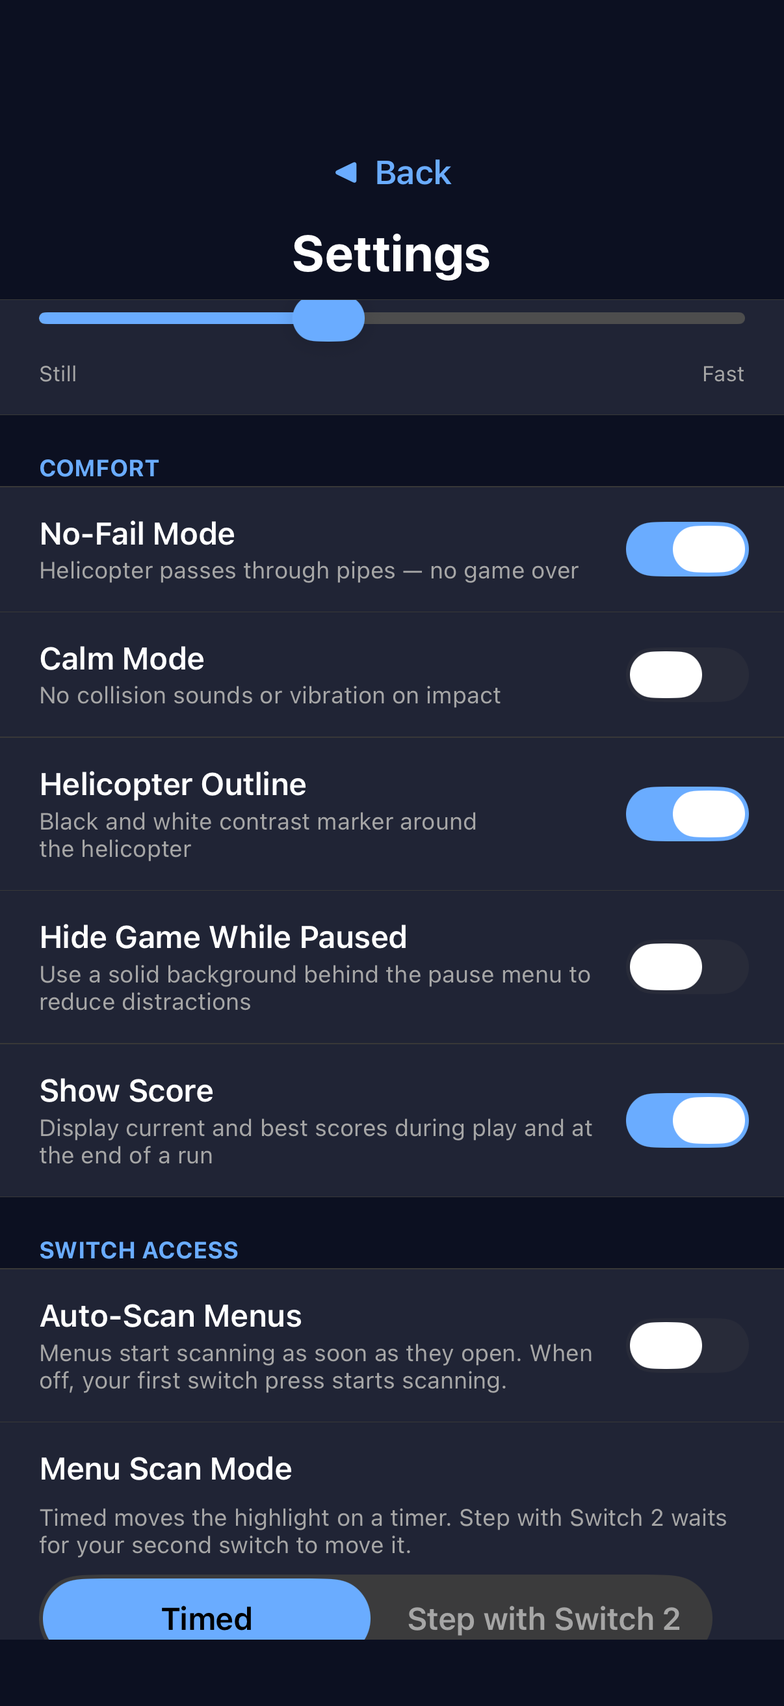
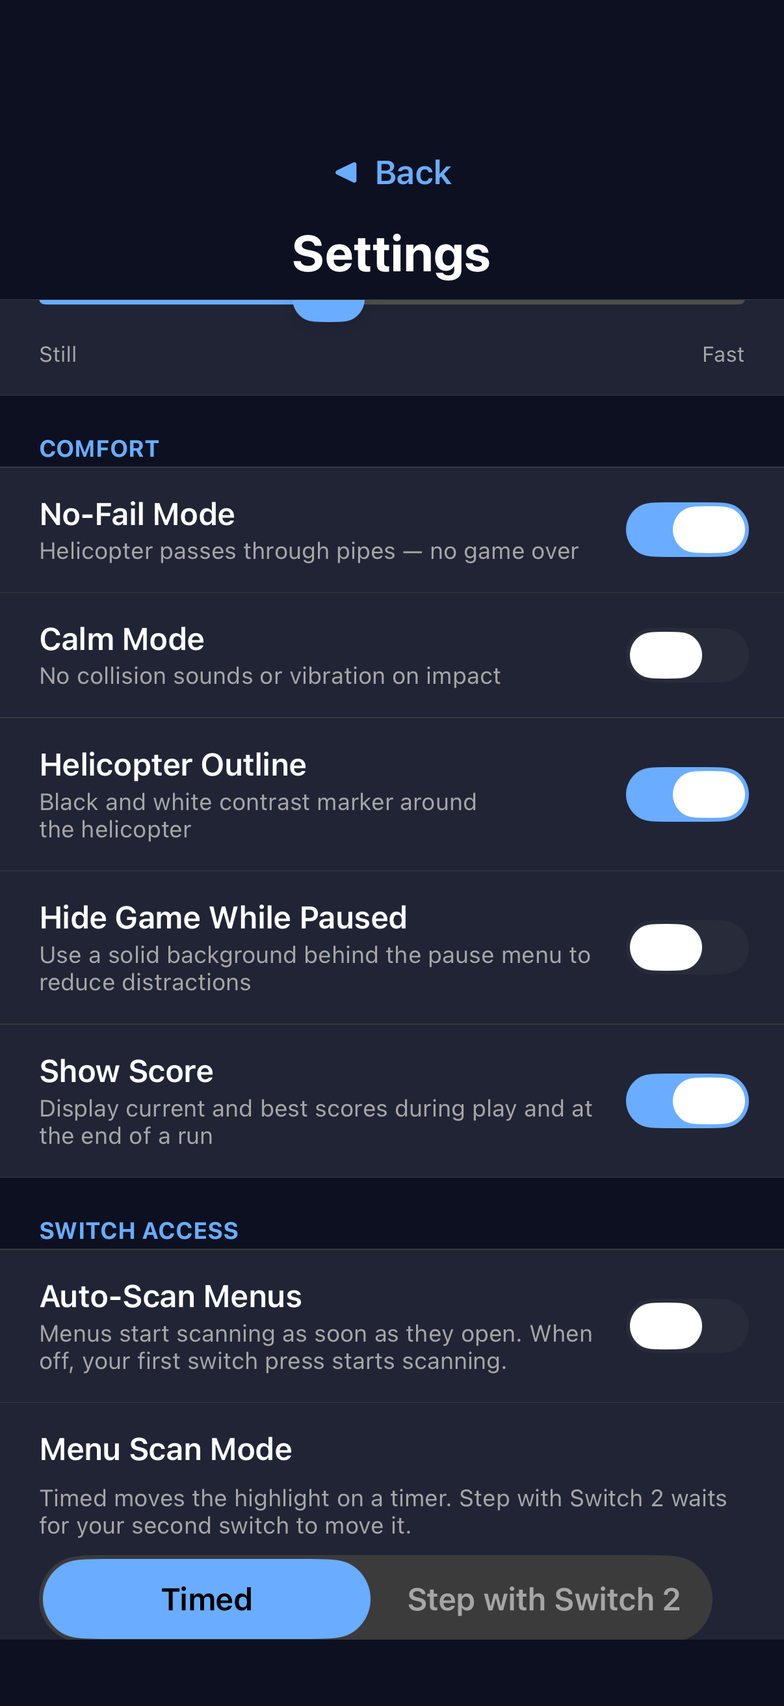
Bring the 2.1 release text and screenshots up to date with Direct Touch and the new pause options
What's New, the description, and the review notes now describe VoiceOver
Direct Touch, the top/bottom touch split, and each scheme's pause. The
screenshot test is fixed for the Fly up / Fly down areas and scrolls
reliably on every device; phones get a separate colours shot.

diff --git a/HelichopterUITests/StoreScreenshotTests.swift b/HelichopterUITests/StoreScreenshotTests.swift
@@ -26,6 +26,8 @@ final class StoreScreenshotTests: XCTestCase {
                                 "-gs_isSettingsLocked", "<false/>", "-gs_selectedThemeID", "nightSky",
                                 "-gs_selectedPaletteID", "default", "-isMusicOn", "<false/>",
                                 "-gs_scanScheme", "<integer>0</integer>",
+                                "-gs_scanDwellTime", "<real>2</real>",
+                                "-gs_switchPauseHoldDuration", "<real>3</real>",
                                 "-gs_controlScheme", "<integer>\(controlScheme)</integer>",
                                 "-bestScore", "<integer>18</integer>"]
         app.launch()
@@ -41,27 +43,81 @@ final class StoreScreenshotTests: XCTestCase {
     }
 
     /// Scrolls Settings until `element`'s top sits at `fraction` of the screen height.
-    /// Slow drags in the left margin avoid coasting and never touch a slider.
     private func scroll(_ element: XCUIElement, toTopAt fraction: CGFloat) {
-        XCTAssertTrue(element.waitForExistence(timeout: 5))
+        scroll(element, toY: fraction * app.frame.height)
+    }
+
+    /// Scrolls Settings until `element`'s top sits `points` below the Settings title, so
+    /// the framing matches on phones whose title bars differ in height.
+    private func scroll(_ element: XCUIElement, belowTitleBy points: CGFloat) {
+        scroll(element, toY: app.staticTexts["Settings"].frame.maxY + points)
+    }
+
+    /// Slow drags 6 points from the left edge avoid coasting and start left of every
+    /// slider track (2% of an iPad's width is already on one).
+    /// Settings exposes only rows near the visible area, so an element at the edge can
+    /// drop out of the tree for a moment; each pass waits for it again.
+    private func scroll(_ element: XCUIElement, toY target: CGFloat) {
         let height = app.frame.height
+        // Each drag loses its first few points to the scroll view's touch slop (about 10
+        // on a phone, 15 on an iPad); learn it from each long drag and add it back.
+        var slop: CGFloat = 10
+        var lastDrag: CGFloat?
+        var lastY: CGFloat?
+        var stuck = 0
         for _ in 0..<12 {
-            let offset = element.frame.minY - fraction * height
+            guard element.waitForExistence(timeout: 3) else {
+                // Gone from the tree for now: nudge the same way (or down the page) and look again.
+                drag(by: (lastDrag ?? height / 2) / 2, height: height)
+                lastDrag = nil
+                continue
+            }
+            let y = element.frame.minY
+            // Two long drags in a row that moved nothing mean the page has reached its end
+            // (one alone can be a stale reading).
+            if let drag = lastDrag, let before = lastY, abs(drag) > 60, abs(before - y) < 2 {
+                stuck += 1
+                if stuck == 2 { return }
+            } else {
+                stuck = 0
+            }
+            if let drag = lastDrag, let before = lastY, abs(drag) > 60,
+               abs(before - y) > 30, abs(before - y) < abs(drag) {
+                slop = abs(drag) - abs(before - y)
+            }
+            let offset = y - target
             if abs(offset) < 4 { return }
-            let step = max(-0.6, min(0.6, offset / height))
-            let start = app.coordinate(withNormalizedOffset: CGVector(dx: 0.02, dy: step > 0 ? 0.85 : 0.3))
-            let end = start.withOffset(CGVector(dx: 0, dy: -step * height))
-            start.press(forDuration: 0.1, thenDragTo: end, withVelocity: .slow, thenHoldForDuration: 0.3)
+            let distance = offset + (offset > 0 ? slop : -slop)
+            lastDrag = drag(by: distance, height: height, avoiding: element.frame)
+            lastY = y
         }
+        // Close enough still frames the shot; only a real miss fails.
+        if abs(element.frame.minY - target) > 20 { XCTFail("Could not scroll \(element) into place") }
+    }
+
+    /// Drags the page up by `distance` points (down if negative), at most 60% of the
+    /// screen at a time, and returns how far it dragged. The drag starts off `avoiding`,
+    /// because a full-width button under the finger takes the touch instead of the page.
+    @discardableResult
+    private func drag(by distance: CGFloat, height: CGFloat, avoiding: CGRect = .null) -> CGFloat {
+        let step = max(-0.6, min(0.6, distance / height))
+        let starts: [CGFloat] = step > 0 ? [0.85, 0.95, 0.75] : [0.3, 0.2, 0.35]
+        let startY = starts.first { !avoiding.insetBy(dx: 0, dy: -8).contains(CGPoint(x: 6, y: $0 * height)) } ?? starts[0]
+        let start = app.coordinate(withNormalizedOffset: CGVector(dx: 0, dy: startY))
+            .withOffset(CGVector(dx: 6, dy: 0))
+        let end = start.withOffset(CGVector(dx: 0, dy: -step * height))
+        start.press(forDuration: 0.1, thenDragTo: end, withVelocity: .slow, thenHoldForDuration: 0.3)
+        return step * height
     }
 
     func testCaptureStoreScreenshots() throws {
         let isPad = UIDevice.current.userInterfaceIdiom == .pad
 
-        // Gameplay: Auto Hover holds the helicopter steady while pipes pass.
+        // Gameplay: Auto Hover holds the helicopter steady while pipes pass. Its screen
+        // is split into Fly up and Fly down areas.
         launch(controlScheme: 2)
         app.buttons["Play"].tap()
-        let flight = app.buttons["Helicopter flight control"]
+        let flight = app.buttons["Fly up"]
         XCTAssertTrue(flight.waitForExistence(timeout: 5))
         flight.tap()
         // About 10 s in, the first pipe pair is passing the helicopter.
@@ -76,8 +132,11 @@ final class StoreScreenshotTests: XCTestCase {
         XCTAssertTrue(app.buttons["Classic Pipes"].waitForExistence(timeout: 5))
         capture("3-hangar")
         app.buttons["Back"].tap()
+        // Taps wait for each fade, and the Hangar also has Back, so wait for each screen.
+        XCTAssertTrue(app.buttons["Play"].waitForExistence(timeout: 5))
+        Thread.sleep(forTimeInterval: 1)
         app.buttons["Settings"].tap()
-        XCTAssertTrue(app.buttons["Back"].waitForExistence(timeout: 5))
+        XCTAssertTrue(app.staticTexts["Difficulty Preset"].waitForExistence(timeout: 5))
         if isPad {
             capture("4-difficulty-and-comfort")
             scroll(app.staticTexts["Switch Access"], toTopAt: 0.17)
@@ -85,14 +144,25 @@ final class StoreScreenshotTests: XCTestCase {
         } else {
             scroll(app.staticTexts["Comfort"], toTopAt: 0.255)
             capture("4-comfort-and-switch-access")
-            scroll(app.sliders["Scan Dwell Time"], toTopAt: 0.175)
-            capture("5-controls-and-colours")
-            scroll(app.staticTexts["Difficulty Preset"], toTopAt: 0.255)
-            capture("6-difficulty")
+            // From 2.1 the pause toggles push the palettes off screen, so they get their own shot.
+            // Row titles can drop out of the UI-test tree mid-scroll; the slider above
+            // In-Game Control does not. Its frame is the whole row, so tuck the row
+            // under the title bar.
+            let dwell = app.sliders["Scan Dwell Time"]
+            XCTAssertTrue(dwell.waitForExistence(timeout: 5))
+            scroll(dwell, belowTitleBy: 8 - dwell.frame.height)
+            capture("5-controls-and-pausing")
+            // The Hangar also has a Menu Theme heading, so use the Settings-only button.
+            scroll(app.buttons.matching(NSPredicate(format: "label BEGINSWITH 'Menu Theme:'")).firstMatch,
+                   belowTitleBy: 55)
+            capture("6-colours")
+            // Back at the top, where the page rests.
+            scroll(app.staticTexts["Difficulty Preset"], belowTitleBy: 36)
+            capture("7-difficulty")
         }
         app.terminate()
 
         launch(guide: true)
-        capture(isPad ? "6-how-to-play" : "7-how-to-play")
+        capture(isPad ? "6-how-to-play" : "8-how-to-play")
     }
 }

diff --git a/Release/APP_STORE_COPY.md b/Release/APP_STORE_COPY.md
@@ -1,6 +1,6 @@
 # App Store submission copy
 
-Version 2.0 listing as entered in App Store Connect (October 2026), plus the 2.1 What's New. Edit this file first, then copy changes into App Store Connect.
+Version 2.0 listing as entered in App Store Connect (October 2026), plus the 2.1 What's New. For 2.1, the description's last paragraph and the review notes were updated (2026-10-26) for VoiceOver Direct Touch and the new pause options; paste both into App Store Connect. Edit this file first, then copy changes into App Store Connect.
 
 > **Before in-app purchases ship:** the description and review notes below say there are no purchases. Update them, the age-rating answers, and the DSA trader status as described in [Plans/02_COSMETICS_AND_STORE.md](../Plans/02_COSMETICS_AND_STORE.md).
 
@@ -33,7 +33,7 @@ Make the experience comfortable:
 - Adjust background scrolling and choose among three themes and six colour palettes.
 - Replay How to Play whenever you need a reminder.
 
-Menus and Settings offer scalable text and switch scanning. VoiceOver provides flight actions and spoken gap guidance. During keyboard or controller play, hold the primary switch to pause, then release it before choosing a menu item. Settings let you adjust the hold delay and scanning speed.
+Menus and Settings offer scalable text and switch scanning. With VoiceOver, touch the game to fly at once, or use double-taps and actions; spoken gap guidance tells you where the next gap is. Each flight scheme has its own way to pause with switches, and Settings let you adjust the hold delay and scanning speed or turn hold-to-pause off.
 
 Helichopter works offline without an account, ads, or in-app purchases. Settings and scores are saved on your device.
 
@@ -42,6 +42,11 @@ Helichopter works offline without an account, ads, or in-app purchases. Settings
 New Hangar on the Home screen: choose the menu theme there, with a preview of each one. The menu theme has moved from Settings, which now has a button that opens the Hangar. When Settings is locked, the Hangar is locked too.
 
 Rebuilt menus: Home, Settings, Pause, and Round Over now fade as one whole screen, so two menus never appear at the same time. Taps and switch presses wait until the new screen is ready. With Reduce Motion on, the fade is shorter.
+
+New ways to fly and pause:
+- VoiceOver Direct Touch (on by default): with VoiceOver on, touch the lower half of the game to fly at once, with no double-tap. Gap guidance is still spoken, and the Pause button stays at the top. Turn it off in Settings to fly with double-taps and actions.
+- In Auto Hover and Up/Down Switches, touch above the middle of the screen to move up and below it to move down. A faint line marks the middle.
+- Pausing suits each flight scheme. In Tap to Flap and Hold to Hover, the secondary switch pauses at once. In Up/Down Switches, hold both switches for half a second, so holding one switch to rise no longer pauses. New setting Pause by Holding Switch turns off hold-to-pause for players who pause by accident.
 
 Accessibility improvements:
 - VoiceOver reads each Settings switch and slider once, with its description as a hint, and announces each screen once. Settings sections are headings, so the rotor can jump between them.
@@ -52,6 +57,8 @@ Accessibility improvements:
 
 Other changes:
 - In a narrow iPad window, such as Split View or Slide Over, the game is drawn larger.
+- A game controller's d-pad can now move down in Auto Hover and Up/Down Switches.
+- In Tap to Flap and Hold to Hover, the secondary switch no longer starts a round without moving the helicopter.
 - In No-Fail Mode, landing on a pipe corner no longer pushes the helicopter forwards or backwards.
 - The app uses less power on menu screens.
 
@@ -65,8 +72,8 @@ No login, purchase, server connection, or special account is needed. The first-r
 
 1. Open Settings. Choose Gentle for slower play. No-Fail Mode is on by default; turn it off to reach Round Over after a collision.
 2. For keyboard-emulating switch input, Space or Enter selects. In Settings → Switch Access, Auto-Scan Menus starts scanning when each menu opens; Menu Scan Mode → Step with Switch 2 uses secondary input (2) to advance and primary input to select. Sliders open Decrease/Increase/Done choices.
-3. During flight, hold the primary keyboard/controller switch for 3 seconds to pause. Release before selecting Resume or Home. The delay is adjustable from 2–10 seconds.
-4. With VoiceOver enabled, focus Helicopter flight control. Double-tap flaps, toggles hover, nudges up, or toggles rising according to the selected flight scheme. The Move down custom action provides downward control where applicable. Pause or accessibility escape opens the pause menu. Guidance is periodic, not continuous.
+3. During flight, tap Pause at the top of the screen. With a keyboard or controller: in Tap to Flap, Hold to Hover, and Auto Hover, hold the primary switch (Space) for 3 seconds (adjustable from 2–10 seconds; Settings → Pause by Holding Switch turns this off); in Tap to Flap and Hold to Hover, the secondary switch (2) also pauses at once; in Up/Down Switches, hold both switches for half a second. Release before selecting Resume or Home.
+4. With VoiceOver enabled and Settings → VoiceOver Direct Touch on (the default), touching the lower half of the game flies directly: a tap flaps, and a hold hovers in Hold to Hover. In Auto Hover and Up/Down Switches, the screen is split into Fly up (upper half) and Fly down (lower half) areas. The Pause button at the top works as a normal VoiceOver button. With Direct Touch off, focus Helicopter flight control (or Fly up / Fly down) and double-tap; its Pause action or the accessibility escape gesture opens the pause menu. Gap guidance is periodic, not continuous.
 5. Settings → Reset Settings → Restore Defaults restores Standard difficulty, default controls/audio, the menu theme, and the Classic helicopter and pipes, while retaining scores and guide completion. Cancel leaves settings intact. Lock Settings must be off to reset.
 
 ## Accessibility statement
@@ -77,7 +84,7 @@ These features are implemented. Full sound-only play and physical assistive-devi
 
 ## Screenshot capture brief
 
-Use real release-candidate screens on iPhone and iPad; do not upload test-layout captures as product screenshots. Capture gameplay with a visible gap, Home, the Hangar (menu themes), control choices, Comfort settings, and How to Play. Lead with gameplay. Optional captions: “Fly at your own pace”, “Choose how you fly”, “Practice with No-Fail Mode”, “Adjust your comfort settings”. Verify required sizes in [Apple's screenshot specifications](https://developer.apple.com/help/app-store-connect/reference/app-information/screenshot-specifications/) at upload time. The 2.1 screenshots (recaptured 2026-10-12 with the Hangar, replacing 2.0's, which are in git history) are in `Release/Screenshots/`. Recapture with `StoreScreenshotTests` (see `CLAUDE.md`). In App Store Connect, replace all three sets (6.3", 6.9", iPad 13") on the 2.1 version.
+Use real release-candidate screens on iPhone and iPad; do not upload test-layout captures as product screenshots. Capture gameplay with a visible gap, Home, the Hangar (menu themes), control choices, Comfort settings, and How to Play. Lead with gameplay. Optional captions: “Fly at your own pace”, “Choose how you fly”, “Practice with No-Fail Mode”, “Adjust your comfort settings”. Verify required sizes in [Apple's screenshot specifications](https://developer.apple.com/help/app-store-connect/reference/app-information/screenshot-specifications/) at upload time. The 2.1 screenshots (recaptured 2026-10-26 with the Hangar, Direct Touch, and the pause options, replacing 2.0's, which are in git history) are in `Release/Screenshots/`: 8 per phone size, 6 for iPad. Recapture with `StoreScreenshotTests` (see `CLAUDE.md`). In App Store Connect, replace all three sets (6.3", 6.9", iPad 13") on the 2.1 version.
 
 ## Account fields still needed
 

diff --git a/Audit/PROGRESS_LOG.md b/Audit/PROGRESS_LOG.md
@@ -406,3 +406,19 @@ New 20-frame helicopter (white/grayscale, 20 FPS). 9-slice pipes (no more UIGrap
 - **Pausing by scheme:** hold the primary switch in Tap to Flap, Hold to Hover, and Auto Hover (as before); the secondary switch pauses at once in Tap to Flap and Hold to Hover, where it had no job; Up/Down Switches no longer pauses on a held primary, and instead pauses when both switches are held for half a second (`GameScene.bothSwitchesPauseDelay`; letting go of either cancels it). While both are held, the helicopter holds still. New Settings toggle **Pause by Holding Switch** (on by default, cleared by Reset) turns hold-to-pause off; the Pause button and the other switch pauses still work. The guide's pause text, Settings details, and the on-screen hints describe each scheme.
 - Tests: new `secondarySwitchPausesOrMovesDownBySchemeAndHoldsStayUnpaused`, `bothSwitchesPauseUpDownSwitches`, `holdToPauseCanBeTurnedOff`, `touchTopMovesUpAndBottomMovesDownInSplitSchemes`, `guideDescribesEachSchemesPause`, and UI test `testSplitFlightScreenPassesTheAudit` (Auto Hover and Up/Down Switches). Existing pause, VoiceOver, direct-touch, Settings-order, and reset tests updated. **133 unit tests and all 3 UI audit tests pass**, with no build warnings. `artNamesLiveOnlyInTheCatalog` and `onlyTheHelperPresentsScenes` hung earlier on a macOS Desktop-folder prompt; once access was allowed they were run on their own and pass, so the whole unit suite passes. Checked by hand in the simulator: divider and labels draw correctly, and taps above and below the line move the helicopter up and down.
 - Still needs a device: Direct Touch with real VoiceOver, Voice Control "Tap Up"/"Tap Down", and real switches for the new pauses (added to roadmap step 2).
+
+### 2026-10-26 — 2.1 release text, support page, and screenshots updated (Claude Code)
+- The 2026-10-24/25 changes (VoiceOver Direct Touch, the top/bottom touch split, per-scheme switch pausing, Pause by Holding Switch, the d-pad and secondary-switch fixes) were missing from the release text, and the review notes still told App Review to use the removed Move down action.
+- `Release/APP_STORE_COPY.md`: What's New gains "New ways to fly and pause" and two fixes; the description's accessibility paragraph and review notes 3–4 describe Direct Touch, the Fly up / Fly down areas, and each scheme's pause. The owner must paste the description, What's New, and review notes into App Store Connect.
+- `docs-support-2.1` gained `b17aa5c` (Direct Touch, top/bottom touch, and a pause list by scheme). Still unpushed: publish only after Apple approves 2.1.
+- Screenshots: `StoreScreenshotTests` was broken by the touch split (Auto Hover's flight control is now "Fly up"); fixed. On phones the new toggles pushed the colour palettes out of "5-controls-and-colours", so it is now "5-controls-and-pausing" plus a new "6-colours" (phone: 8 shots; iPad: 6, same names). All three sets recaptured; the owner must replace them in App Store Connect.
+- `StoreScreenshotTests` scrolling made reliable (it had been silently leaving some shots unscrolled, which nobody noticed because each shot only had to exist):
+  - The test waits for Home before opening Settings; the Hangar's Back button had let it continue while Home was still fading in, so the Settings tap was sometimes dropped.
+  - Drags start 6 pt from the left edge (2% of an iPad's width is already on a slider track, so drags moved sliders instead of the page), and never on the element being scrolled to (a full-width button under the finger takes the touch).
+  - Each drag loses about 10 pt (phone) or 15 pt (iPad) to touch slop before the page moves; the test learns this from each long drag and adds it back, so short corrections land. It stops at the end of the page (two long drags that move nothing).
+  - Settings exposes only rows near the visible area to UI tests, so an element can drop out of the tree for a moment; each pass waits for it again. A slider's frame is its whole row.
+  - Phone shots are framed from the Settings title rather than a screen fraction, so both phone sizes match; Scan Dwell Time and Hold Switch to Pause are pinned to their defaults (2 s and 3 s) by launch arguments. The previous phone screenshots showed 0.5 s and 2 s left over in the simulators.
+  - A real scroll miss now fails the test. Checked with a temporary diagnostic: once Settings is open, the app's accessibility tree no longer contains the Hangar.
+- Roadmap: 2.1 is build 4 (raised in `05dcfbd`), not 3.
+- Checks: `Tools/release_check.sh` passes (2.1 (4); only the expected unsigned-build WARN). **135 unit tests and all 3 UI audit tests pass**, no build warnings; the screenshot test passes on iPhone 17, iPhone 18 Pro Max, and iPad Pro 13-inch.
+- Next (owner): device checks (roadmap step 2), then archive, upload, paste the description, What's New, and review notes, replace the three screenshot sets, and submit. After approval, merge and push `docs-support-2.1`.

diff --git a/Plans/ROADMAP.md b/Plans/ROADMAP.md
@@ -8,7 +8,7 @@ Written 2026-10-08, after version 2.0 went live. Work top to bottom unless the o
 
 - [x] Commit the build-number change in `project.pbxproj` (`CURRENT_PROJECT_VERSION` 1 → 2, the uploaded build) and tag the release `2.0` in git. Done 2026-10-08 (commit `1edfa21`, tag `2.0`).
 - [x] **Owner:** Publish the Accessibility Nutrition Label drafts in App Store Connect now that 2.0 is live (Larger Text, Dark Interface, Sufficient Contrast, Reduced Motion, Differentiate Without Color Alone). Published 2026-10-08.
-- [ ] **When 2.1 is released:** update `docs/support.html` (live site; push publishes it) to the 2.1 names: Timed / Step with Switch 2 scanning, Up/Down Switches flight. It still describes 2.0 on purpose. **Prepared 2026-10-12** on the unpushed branch `docs-support-2.1` (commit `bb8524a`): merge it into `master` and push after Apple approves 2.1.
+- [ ] **When 2.1 is released:** update `docs/support.html` (live site; push publishes it) to the 2.1 names: Timed / Step with Switch 2 scanning, Up/Down Switches flight. It still describes 2.0 on purpose. **Prepared 2026-10-12** on the unpushed branch `docs-support-2.1` (commits `bb8524a`, `dea8685`, `b17aa5c`): merge it into `master` and push after Apple approves 2.1.
 - [ ] **Owner:** Check Xcode → Window → Organizer → Crashes, Hangs, and Feedback weekly for the first month (until about 2026-11-08). Ongoing; does not block step 1. This needs no SDK and does not change the privacy answers.
 
 ## 1. Remove the "double page" effect — [Plan 01](01_SINGLE_LAYER_UI.md)
@@ -16,7 +16,7 @@ Written 2026-10-08, after version 2.0 went live. Work top to bottom unless the o
 Version numbering: bug fixes with no new features ship as `2.0.x`; anything that changes screens or adds features ships as `2.x`. Bump `MARKETING_VERSION` and `CURRENT_PROJECT_VERSION` at the start of the release's work so test builds are never confused with the live 2.0 (2).
 
 - [x] **Stage A (quick fix):** route every screen change through one helper that animates SpriteKit and UIKit together as a single snapshot. Done 2026-10-08 (`0bb33a1`). **Not released as 2.0.1** (owner decision: no partial hotfix); it ships inside 2.1.
-- [ ] **Stage B (proper fix, several sessions) → release 2.1, build 3 (version already set):** start at "Start here" in Plan 01 Stage B. Release only after steps 1–5 are all done. Steps 1 (event-driven HUD), 2 (Pause and Round Over in UIKit), 3 (Home and guide in UIKit; 50 ms timer deleted), 4 (Settings in UIKit; `SettingsScene.swift` split), and 5 (clean-up; HUD built in Swift; `RootViewController`) done 2026-10-08. Plan 02 Phase 1 steps 1–2 (the Hangar, added to 2.1) done 2026-10-12, with release prep redone. **Next: Owner** device screen recordings (Plan 01 "Manual checks") and the step 2 device checks, including the Hangar, then submit 2.1. Step 6 (narrow iPad windows get the larger phone layout) also done 2026-10-08. Make Home, Guide, Settings, Pause, and Round Over plain UIKit screens; SpriteKit only for gameplay and the backdrop. Deletes the hidden `.sks` menus, the 50 ms timer, the legacy toggle classes, and the iPad archive copies. Splits the 1,160-line `SettingsScene.swift`.
+- [ ] **Stage B (proper fix, several sessions) → release 2.1, build 4 (version already set):** start at "Start here" in Plan 01 Stage B. Release only after steps 1–5 are all done. Steps 1 (event-driven HUD), 2 (Pause and Round Over in UIKit), 3 (Home and guide in UIKit; 50 ms timer deleted), 4 (Settings in UIKit; `SettingsScene.swift` split), and 5 (clean-up; HUD built in Swift; `RootViewController`) done 2026-10-08. Plan 02 Phase 1 steps 1–2 (the Hangar, added to 2.1) done 2026-10-12, with release prep redone. Release text, support branch, and screenshots brought up to date with VoiceOver Direct Touch and the new pause options 2026-10-26. **Next: Owner** device screen recordings (Plan 01 "Manual checks") and the step 2 device checks, including the Hangar, then submit 2.1. Step 6 (narrow iPad windows get the larger phone layout) also done 2026-10-08. Make Home, Guide, Settings, Pause, and Round Over plain UIKit screens; SpriteKit only for gameplay and the backdrop. Deletes the hidden `.sks` menus, the 50 ms timer, the legacy toggle classes, and the iPad archive copies. Splits the 1,160-line `SettingsScene.swift`.
 
 ## 2. Device accessibility testing (can run alongside step 1)
 
